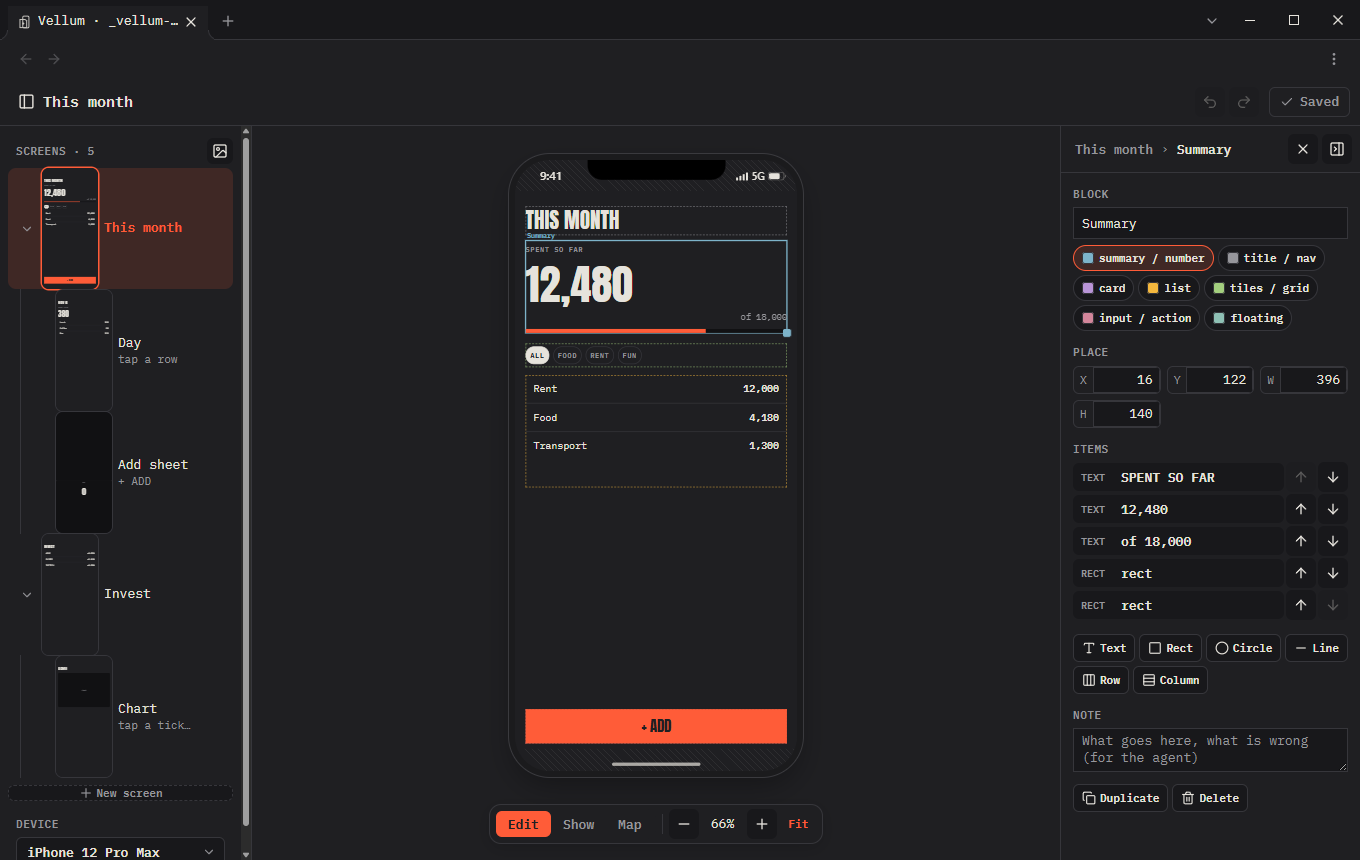
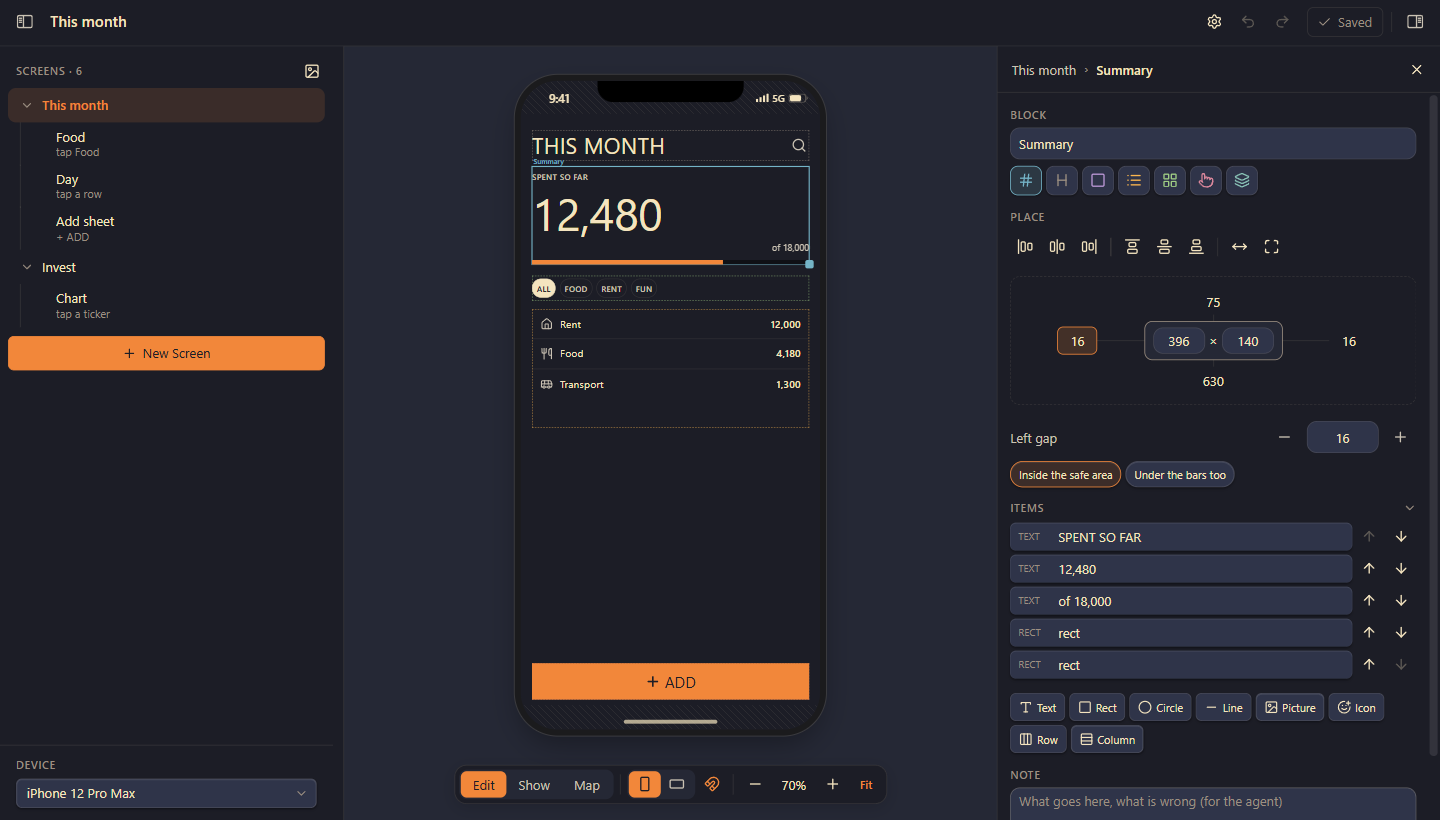
docs: new screenshots in ZeLedger's colours: the editor, map, peek, frames, the picture panel, snapping, settings
Claude-Session: https://claude.ai/code/session_01QJXkZfp8KAacLpxiw1EVTy

diff --git a/README.md b/README.md
@@ -18,8 +18,12 @@ Lay out app screens on real phone frames inside an Obsidian note. Vellum is trac
 | Map: every screen as a tree | Peek: rest the pointer on a screen |
 | :---: | :---: |
 | ![Map view](assets/map.png) | ![Peek](assets/peek.png) |
+| **Frames**: Food sits on This month's frame; its blocks are faded and locked, override one or edit it there | **Pictures**: the whole picture with the part its box shows framed; click or drag to choose it |
+| ![Frames](assets/frames.png) | ![Picture settings](assets/picture.png) |
+| **Snapping**: edges and middles snap, with guide lines | **Settings**: colours, fonts, snapping |
+| ![Snapping](assets/snapping.png) | ![Settings](assets/settings.png) |
 
-*A made-up budget app ([`examples/Vellum Demo.md`](examples/Vellum%20Demo.md)).*
+*A made-up budget app ([`examples/Vellum Demo.md`](examples/Vellum%20Demo.md)) in ZeLedger's "Popping and Locking" colours; the picture is [Morellonomicon](https://github.com/zelvet-velvet/Morellonomicon)'s Home screen.*
 
 ## Install
 
